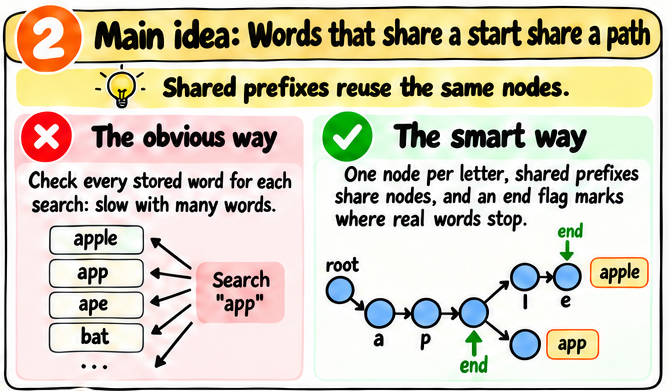
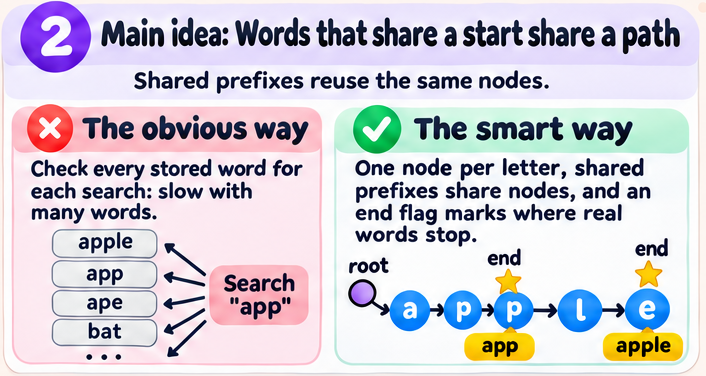
Implement Trie: new picture, cut into phone pieces, with the code after the walkthrough cards
Claude-Session: https://claude.ai/code/session_01C929SSvb38XrBSVCbuNvTc

diff --git a/tries.html b/tries.html
@@ -86,7 +86,7 @@ td{padding:10px 12px;border:1px solid var(--border)}
 <div class="deriv"><div class="deriv-h" onclick="this.parentElement.classList.toggle('open')"><h3><span class="deriv-n">1</span>#208 Implement Trie (Prefix Tree)<span class="tag-m">Medium</span></h3><span class="deriv-a">&#9654;</span></div>
 <div class="deriv-b">
 <img src="tries/images/p208_implement_trie.png" alt="Implement Trie (Prefix Tree): Words that share a start share a path" class="scene-img has-panels">
-<!--ps--><div class="panel-stack"><img src="tries/images/panels/p208_implement_trie_1.png" alt="Implement Trie (Prefix Tree), part 1 of 8" loading="lazy"><img src="tries/images/panels/p208_implement_trie_2.png" alt="Implement Trie (Prefix Tree), part 2 of 8" loading="lazy"><img src="tries/images/panels/p208_implement_trie_3h.png" alt="Implement Trie (Prefix Tree), part 3 of 8" loading="lazy"><img src="tries/images/panels/p208_implement_trie_3.png" alt="Implement Trie (Prefix Tree), part 4 of 8" loading="lazy"><img src="tries/images/panels/p208_implement_trie_4.png" alt="Implement Trie (Prefix Tree), part 5 of 8" loading="lazy"><img class="code-img" src="tries/images/panels/p208_implement_trie_5.png" alt="Implement Trie (Prefix Tree), part 6 of 8" loading="lazy"><div class="code-text"><div class="code-label"><span class="dots"><i></i><i></i><i></i></span>Python code<button class="step-btn" type="button">Build it &#9654;</button></div><div class="code-body"><div class="code-inner"><div class="ln" data-l="1" style="padding-left:calc(10px + 2ch);text-indent:-2ch"><span class="k-kw">class</span> <span class="k-def">TrieNode</span>:</div><div class="ln" data-l="2" style="padding-left:calc(10px + 4ch);text-indent:-4ch">  <span class="k-kw">def</span> <span class="k-def">__init__</span>(<span class="k-self">self</span>):</div><div class="ln" data-l="3" style="padding-left:calc(10px + 6ch);text-indent:-6ch">    <span class="k-self">self</span>.children = {}</div><div class="ln" data-l="4" style="padding-left:calc(10px + 6ch);text-indent:-6ch">    <span class="k-self">self</span>.is_end = <span class="k-const">False</span></div><div class="ln" style="padding-left:calc(10px + 2ch);text-indent:-2ch"> </div><div class="ln" data-l="6" style="padding-left:calc(10px + 2ch);text-indent:-2ch"><span class="k-kw">class</span> <span class="k-def">Trie</span>:</div><div class="ln" data-l="7" style="padding-left:calc(10px + 4ch);text-indent:-4ch">  <span class="k-kw">def</span> <span class="k-def">__init__</span>(<span class="k-self">self</span>):</div><div class="ln" data-l="8" style="padding-left:calc(10px + 6ch);text-indent:-6ch">    <span class="k-self">self</span>.root = TrieNode()</div><div class="ln" style="padding-left:calc(10px + 2ch);text-indent:-2ch"> </div><div class="ln" data-l="10" style="padding-left:calc(10px + 4ch);text-indent:-4ch">  <span class="k-kw">def</span> <span class="k-def">insert</span>(<span class="k-self">self</span>, word):</div><div class="ln" data-l="11" style="padding-left:calc(10px + 6ch);text-indent:-6ch">    node = <span class="k-self">self</span>.root</div><div class="ln" data-l="12" style="padding-left:calc(10px + 6ch);text-indent:-6ch">    <span class="k-kw">for</span> ch <span class="k-kw">in</span> word:</div><div class="ln" data-l="13" style="padding-left:calc(10px + 8ch);text-indent:-8ch">      <span class="k-kw">if</span> ch <span class="k-kw">not</span> <span class="k-kw">in</span> node.children:</div><div class="ln" data-l="14" style="padding-left:calc(10px + 10ch);text-indent:-10ch">        node.children[ch] = TrieNode()</div><div class="ln" data-l="15" style="padding-left:calc(10px + 8ch);text-indent:-8ch">      node = node.children[ch]</div><div class="ln" data-l="16" style="padding-left:calc(10px + 6ch);text-indent:-6ch">    node.is_end = <span class="k-const">True</span></div><div class="ln" style="padding-left:calc(10px + 2ch);text-indent:-2ch"> </div><div class="ln" data-l="18" style="padding-left:calc(10px + 4ch);text-indent:-4ch">  <span class="k-kw">def</span> <span class="k-def">_walk</span>(<span class="k-self">self</span>, text):</div><div class="ln" data-l="19" style="padding-left:calc(10px + 6ch);text-indent:-6ch">    node = <span class="k-self">self</span>.root</div><div class="ln" data-l="20" style="padding-left:calc(10px + 6ch);text-indent:-6ch">    <span class="k-kw">for</span> ch <span class="k-kw">in</span> text:</div><div class="ln" data-l="21" style="padding-left:calc(10px + 8ch);text-indent:-8ch">      <span class="k-kw">if</span> ch <span class="k-kw">not</span> <span class="k-kw">in</span> node.children:</div><div class="ln" data-l="22" style="padding-left:calc(10px + 10ch);text-indent:-10ch">        <span class="k-kw">return</span> <span class="k-const">None</span></div><div class="ln" data-l="23" style="padding-left:calc(10px + 8ch);text-indent:-8ch">      node = node.children[ch]</div><div class="ln" data-l="24" style="padding-left:calc(10px + 6ch);text-indent:-6ch">    <span class="k-kw">return</span> node</div><div class="ln" style="padding-left:calc(10px + 2ch);text-indent:-2ch"> </div><div class="ln" data-l="26" style="padding-left:calc(10px + 4ch);text-indent:-4ch">  <span class="k-kw">def</span> <span class="k-def">search</span>(<span class="k-self">self</span>, word):</div><div class="ln" data-l="27" style="padding-left:calc(10px + 6ch);text-indent:-6ch">    node = <span class="k-self">self</span>._walk(word)</div><div class="ln" data-l="28" style="padding-left:calc(10px + 6ch);text-indent:-6ch">    <span class="k-kw">return</span> (node <span class="k-kw">is</span> <span class="k-kw">not</span> <span class="k-const">None</span></div><div class="ln" data-l="29" style="padding-left:calc(10px + 14ch);text-indent:-14ch">            <span class="k-kw">and</span> node.is_end)</div><div class="ln" style="padding-left:calc(10px + 2ch);text-indent:-2ch"> </div><div class="ln" data-l="31" style="padding-left:calc(10px + 4ch);text-indent:-4ch">  <span class="k-kw">def</span> <span class="k-def">startsWith</span>(<span class="k-self">self</span>, prefix):</div><div class="ln" data-l="32" style="padding-left:calc(10px + 6ch);text-indent:-6ch">    <span class="k-kw">return</span> (<span class="k-self">self</span>._walk(prefix)</div><div class="ln" data-l="33" style="padding-left:calc(10px + 14ch);text-indent:-14ch">            <span class="k-kw">is</span> <span class="k-kw">not</span> <span class="k-const">None</span>)</div></div></div><script type="application/json" class="steps">[{"lines": "1-4", "say": "I\u2019ll start by creating a `TrieNode` class. Each node represents one letter and stores two things:\n* children: A dictionary that stores the letters that can come next. For example, if we store \"cat\" and \"car\", the node for \"a\" will have two children: \"t\" and \"r\".\n* is_end: A flag that tells us if a complete word ends at this node. For example, in \"cat\", it will be `True` at \"t\", but `False` at \"c\" and \"a\"."}, {"lines": "6-8", "say": "I\u2019ll create the `Trie` class. I\u2019ll set `self.root` to a new `TrieNode`, so every word starts from the same place. The root itself holds no letter. For example, \"cat\" and \"car\" both start at `self.root`, and then both follow \"c\"."}, {"lines": "10-12,15", "say": "I\u2019ll define `insert` to add `word` one letter at a time.\n* I\u2019ll set `node` to `self.root`, because every word starts from the root.\n* For each `ch` in `word`, I\u2019ll move `node` to `node.children[ch]`, so each letter takes me one level down.\n* For example, inserting \"cat\" goes from the root to \"c\", then \"a\", then \"t\"."}, {"lines": "13-14", "say": "I\u2019ll create a new `TrieNode` when `ch` is not in `node.children`. Existing nodes are reused. For example, after inserting \"cat\", inserting \"car\" reuses \"c\" and \"a\" and creates a node for \"r\"."}, {"lines": "16", "say": "I\u2019ll set `node.is_end` to `True` after inserting every letter. This marks the end of the word. For example, after inserting \"cat\", the node for \"t\" is marked `True`."}, {"lines": "18-24", "say": "I\u2019ll define `_walk` as a helper that follows the letters of `text`. Both `search` and `startsWith` need this, so I write it once.\n* I\u2019ll set `node` to `self.root`.\n* For each `ch` in `text`, if `ch` is not in `node.children`, I\u2019ll return `None`, because the path breaks there.\n* Otherwise, I\u2019ll move `node` to `node.children[ch]`.\n* After the loop, I\u2019ll return `node`, which is the node for the last letter.\n* For example, with only \"cat\" stored, `_walk(\"ca\")` returns the node for \"a\", but `_walk(\"car\")` returns `None` because there is no \"r\" after \"ca\"."}, {"lines": "26-29", "say": "I\u2019ll define `search` to check whether `word` was inserted as a full word.\n* I\u2019ll set `node` to `self._walk(word)`.\n* I\u2019ll return `True` only if `node` is not `None` and `node.is_end` is `True`. I need both checks, because the path can exist for a prefix that was never inserted.\n* For example, with \"cat\" stored, `search(\"cat\")` is `True`, but `search(\"ca\")` is `False`, because `is_end` is `False` at \"a\"."}, {"lines": "31-33", "say": "I\u2019ll define `startsWith` to check whether any stored word begins with `prefix`. I\u2019ll return whether `self._walk(prefix)` is not `None`. I don\u2019t check `is_end` here, because a prefix only needs the path to exist. For example, with \"cat\" and \"car\" stored, `startsWith(\"ca\")` is `True`, even though \"ca\" was never inserted."}, {"lines": "", "say": "I\u2019ll describe the time and space costs.\n* Time: Each operation takes `O(L)`, where `L` is the length of the word or prefix, because I do one step for each letter. For example, inserting \"cat\" takes 3 steps.\n* Space: The trie uses `O(T)` space, where `T` is the total number of letters inserted, because each letter creates at most one node. Words that start the same way share nodes, so it is often less. For example, \"cat\" and \"car\" have 6 letters but need only 4 nodes: \"c\", \"a\", \"t\", and \"r\"."}]</script></div><img src="tries/images/panels/p208_implement_trie_6.png" alt="Implement Trie (Prefix Tree), part 7 of 8" loading="lazy"><img src="tries/images/panels/p208_implement_trie_7.png" alt="Implement Trie (Prefix Tree), part 8 of 8" loading="lazy"></div><!--/ps-->
+<!--ps--><div class="panel-stack"><img src="tries/images/panels/p208_implement_trie_1.png" alt="Implement Trie (Prefix Tree), part 1 of 7" loading="lazy"><img src="tries/images/panels/p208_implement_trie_2.png" alt="Implement Trie (Prefix Tree), part 2 of 7" loading="lazy"><img src="tries/images/panels/p208_implement_trie_3.png" alt="Implement Trie (Prefix Tree), part 3 of 7" loading="lazy"><img src="tries/images/panels/p208_implement_trie_4.png" alt="Implement Trie (Prefix Tree), part 4 of 7" loading="lazy"><div class="code-text"><div class="code-label"><span class="dots"><i></i><i></i><i></i></span>Python code<button class="step-btn" type="button">Build it &#9654;</button></div><div class="code-body"><div class="code-inner"><div class="ln" data-l="1" style="padding-left:calc(10px + 2ch);text-indent:-2ch"><span class="k-kw">class</span> <span class="k-def">TrieNode</span>:</div><div class="ln" data-l="2" style="padding-left:calc(10px + 4ch);text-indent:-4ch">  <span class="k-kw">def</span> <span class="k-def">__init__</span>(<span class="k-self">self</span>):</div><div class="ln" data-l="3" style="padding-left:calc(10px + 6ch);text-indent:-6ch">    <span class="k-self">self</span>.children = {}</div><div class="ln" data-l="4" style="padding-left:calc(10px + 6ch);text-indent:-6ch">    <span class="k-self">self</span>.is_end = <span class="k-const">False</span></div><div class="ln" style="padding-left:calc(10px + 2ch);text-indent:-2ch"> </div><div class="ln" data-l="6" style="padding-left:calc(10px + 2ch);text-indent:-2ch"><span class="k-kw">class</span> <span class="k-def">Trie</span>:</div><div class="ln" data-l="7" style="padding-left:calc(10px + 4ch);text-indent:-4ch">  <span class="k-kw">def</span> <span class="k-def">__init__</span>(<span class="k-self">self</span>):</div><div class="ln" data-l="8" style="padding-left:calc(10px + 6ch);text-indent:-6ch">    <span class="k-self">self</span>.root = TrieNode()</div><div class="ln" style="padding-left:calc(10px + 2ch);text-indent:-2ch"> </div><div class="ln" data-l="10" style="padding-left:calc(10px + 4ch);text-indent:-4ch">  <span class="k-kw">def</span> <span class="k-def">insert</span>(<span class="k-self">self</span>, word):</div><div class="ln" data-l="11" style="padding-left:calc(10px + 6ch);text-indent:-6ch">    node = <span class="k-self">self</span>.root</div><div class="ln" data-l="12" style="padding-left:calc(10px + 6ch);text-indent:-6ch">    <span class="k-kw">for</span> ch <span class="k-kw">in</span> word:</div><div class="ln" data-l="13" style="padding-left:calc(10px + 8ch);text-indent:-8ch">      <span class="k-kw">if</span> ch <span class="k-kw">not</span> <span class="k-kw">in</span> node.children:</div><div class="ln" data-l="14" style="padding-left:calc(10px + 10ch);text-indent:-10ch">        node.children[ch] = TrieNode()</div><div class="ln" data-l="15" style="padding-left:calc(10px + 8ch);text-indent:-8ch">      node = node.children[ch]</div><div class="ln" data-l="16" style="padding-left:calc(10px + 6ch);text-indent:-6ch">    node.is_end = <span class="k-const">True</span></div><div class="ln" style="padding-left:calc(10px + 2ch);text-indent:-2ch"> </div><div class="ln" data-l="18" style="padding-left:calc(10px + 4ch);text-indent:-4ch">  <span class="k-kw">def</span> <span class="k-def">_walk</span>(<span class="k-self">self</span>, text):</div><div class="ln" data-l="19" style="padding-left:calc(10px + 6ch);text-indent:-6ch">    node = <span class="k-self">self</span>.root</div><div class="ln" data-l="20" style="padding-left:calc(10px + 6ch);text-indent:-6ch">    <span class="k-kw">for</span> ch <span class="k-kw">in</span> text:</div><div class="ln" data-l="21" style="padding-left:calc(10px + 8ch);text-indent:-8ch">      <span class="k-kw">if</span> ch <span class="k-kw">not</span> <span class="k-kw">in</span> node.children:</div><div class="ln" data-l="22" style="padding-left:calc(10px + 10ch);text-indent:-10ch">        <span class="k-kw">return</span> <span class="k-const">None</span></div><div class="ln" data-l="23" style="padding-left:calc(10px + 8ch);text-indent:-8ch">      node = node.children[ch]</div><div class="ln" data-l="24" style="padding-left:calc(10px + 6ch);text-indent:-6ch">    <span class="k-kw">return</span> node</div><div class="ln" style="padding-left:calc(10px + 2ch);text-indent:-2ch"> </div><div class="ln" data-l="26" style="padding-left:calc(10px + 4ch);text-indent:-4ch">  <span class="k-kw">def</span> <span class="k-def">search</span>(<span class="k-self">self</span>, word):</div><div class="ln" data-l="27" style="padding-left:calc(10px + 6ch);text-indent:-6ch">    node = <span class="k-self">self</span>._walk(word)</div><div class="ln" data-l="28" style="padding-left:calc(10px + 6ch);text-indent:-6ch">    <span class="k-kw">return</span> (node <span class="k-kw">is</span> <span class="k-kw">not</span> <span class="k-const">None</span></div><div class="ln" data-l="29" style="padding-left:calc(10px + 14ch);text-indent:-14ch">            <span class="k-kw">and</span> node.is_end)</div><div class="ln" style="padding-left:calc(10px + 2ch);text-indent:-2ch"> </div><div class="ln" data-l="31" style="padding-left:calc(10px + 4ch);text-indent:-4ch">  <span class="k-kw">def</span> <span class="k-def">startsWith</span>(<span class="k-self">self</span>, prefix):</div><div class="ln" data-l="32" style="padding-left:calc(10px + 6ch);text-indent:-6ch">    <span class="k-kw">return</span> (<span class="k-self">self</span>._walk(prefix)</div><div class="ln" data-l="33" style="padding-left:calc(10px + 14ch);text-indent:-14ch">            <span class="k-kw">is</span> <span class="k-kw">not</span> <span class="k-const">None</span>)</div></div></div><script type="application/json" class="steps">[{"lines": "1-4", "say": "I\u2019ll start by creating a `TrieNode` class. Each node represents one letter and stores two things:\n* children: A dictionary that stores the letters that can come next. For example, if we store \"cat\" and \"car\", the node for \"a\" will have two children: \"t\" and \"r\".\n* is_end: A flag that tells us if a complete word ends at this node. For example, in \"cat\", it will be `True` at \"t\", but `False` at \"c\" and \"a\"."}, {"lines": "6-8", "say": "I\u2019ll create the `Trie` class. I\u2019ll set `self.root` to a new `TrieNode`, so every word starts from the same place. The root itself holds no letter. For example, \"cat\" and \"car\" both start at `self.root`, and then both follow \"c\"."}, {"lines": "10-12,15", "say": "I\u2019ll define `insert` to add `word` one letter at a time.\n* I\u2019ll set `node` to `self.root`, because every word starts from the root.\n* For each `ch` in `word`, I\u2019ll move `node` to `node.children[ch]`, so each letter takes me one level down.\n* For example, inserting \"cat\" goes from the root to \"c\", then \"a\", then \"t\"."}, {"lines": "13-14", "say": "I\u2019ll create a new `TrieNode` when `ch` is not in `node.children`. Existing nodes are reused. For example, after inserting \"cat\", inserting \"car\" reuses \"c\" and \"a\" and creates a node for \"r\"."}, {"lines": "16", "say": "I\u2019ll set `node.is_end` to `True` after inserting every letter. This marks the end of the word. For example, after inserting \"cat\", the node for \"t\" is marked `True`."}, {"lines": "18-24", "say": "I\u2019ll define `_walk` as a helper that follows the letters of `text`. Both `search` and `startsWith` need this, so I write it once.\n* I\u2019ll set `node` to `self.root`.\n* For each `ch` in `text`, if `ch` is not in `node.children`, I\u2019ll return `None`, because the path breaks there.\n* Otherwise, I\u2019ll move `node` to `node.children[ch]`.\n* After the loop, I\u2019ll return `node`, which is the node for the last letter.\n* For example, with only \"cat\" stored, `_walk(\"ca\")` returns the node for \"a\", but `_walk(\"car\")` returns `None` because there is no \"r\" after \"ca\"."}, {"lines": "26-29", "say": "I\u2019ll define `search` to check whether `word` was inserted as a full word.\n* I\u2019ll set `node` to `self._walk(word)`.\n* I\u2019ll return `True` only if `node` is not `None` and `node.is_end` is `True`. I need both checks, because the path can exist for a prefix that was never inserted.\n* For example, with \"cat\" stored, `search(\"cat\")` is `True`, but `search(\"ca\")` is `False`, because `is_end` is `False` at \"a\"."}, {"lines": "31-33", "say": "I\u2019ll define `startsWith` to check whether any stored word begins with `prefix`. I\u2019ll return whether `self._walk(prefix)` is not `None`. I don\u2019t check `is_end` here, because a prefix only needs the path to exist. For example, with \"cat\" and \"car\" stored, `startsWith(\"ca\")` is `True`, even though \"ca\" was never inserted."}, {"lines": "", "say": "I\u2019ll describe the time and space costs.\n* Time: Each operation takes `O(L)`, where `L` is the length of the word or prefix, because I do one step for each letter. For example, inserting \"cat\" takes 3 steps.\n* Space: The trie uses `O(T)` space, where `T` is the total number of letters inserted, because each letter creates at most one node. Words that start the same way share nodes, so it is often less. For example, \"cat\" and \"car\" have 6 letters but need only 4 nodes: \"c\", \"a\", \"t\", and \"r\"."}]</script></div><img src="tries/images/panels/p208_implement_trie_5.png" alt="Implement Trie (Prefix Tree), part 5 of 7" loading="lazy"><img src="tries/images/panels/p208_implement_trie_6.png" alt="Implement Trie (Prefix Tree), part 6 of 7" loading="lazy"><img src="tries/images/panels/p208_implement_trie_7.png" alt="Implement Trie (Prefix Tree), part 7 of 7" loading="lazy"></div><!--/ps-->
 </div></div>
 
 <div class="deriv"><div class="deriv-h" onclick="this.parentElement.classList.toggle('open')"><h3><span class="deriv-n">2</span>#211 Design Add and Search Words Data Structure<span class="tag-m">Medium</span></h3><span class="deriv-a">&#9654;</span></div>
